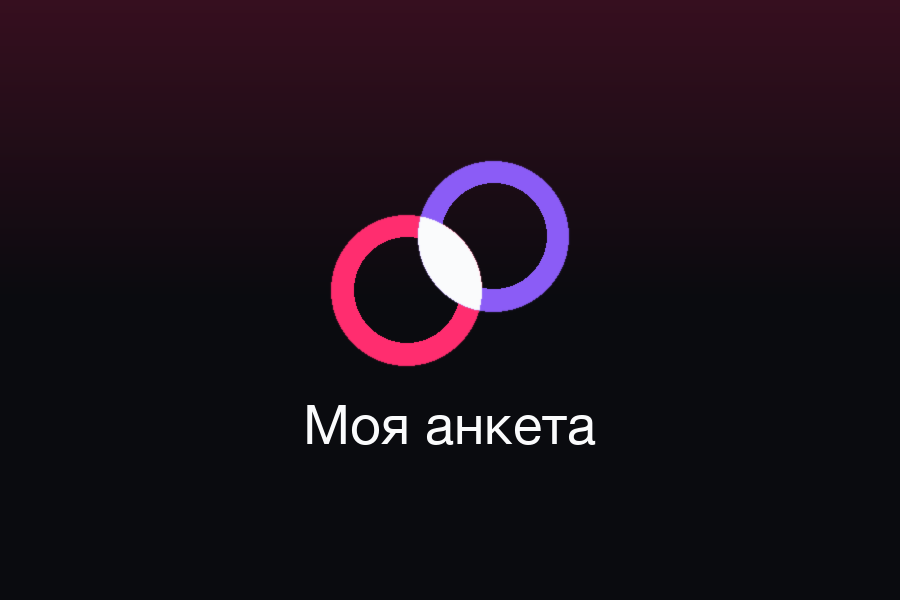
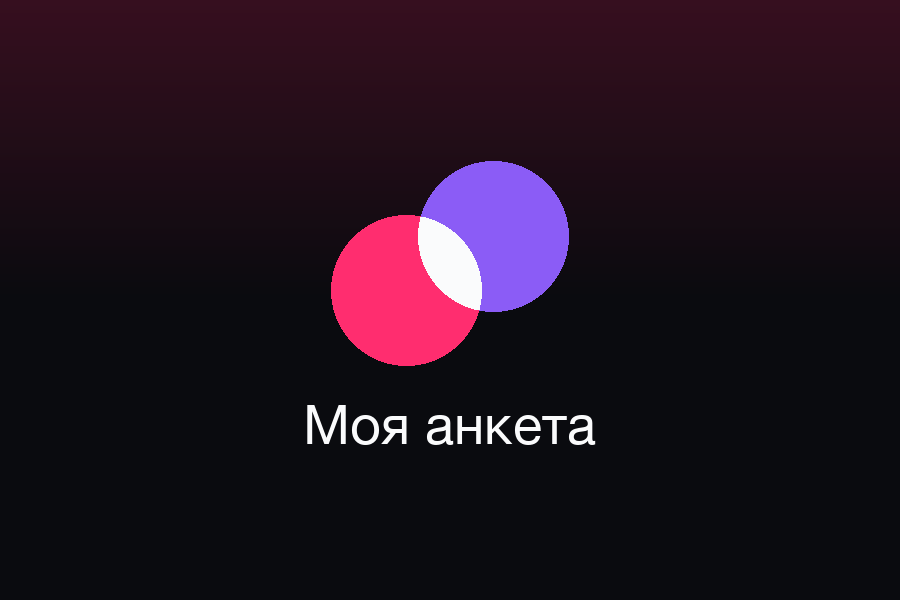
Tighten brandmark to solid overlapping discs with crisp lens.
Replace ring/glow mark with flat magenta/violet discs and a hard white intersection; regenerate icons, splash, and bot banners.

Changed region(s): [[0.3733, 0.36, 0.56, 0.57], [0.4667, 0.27, 0.6222, 0.48], [0.4356, 0.6, 0.4667, 0.63]]

diff --git a/web/src/components/BrandMark.tsx b/web/src/components/BrandMark.tsx
@@ -2,25 +2,23 @@ import { useId } from "react";
 import { motion, useReducedMotion } from "framer-motion";
 
 /**
- * Знак марки: две ауры, в пересечении — свет.
+ * Знак марки: два сплошных диска, в пересечении — свет.
  *
  * У каждого человека в продукте свой детерминированный цвет — аура
- * (lib/aura.ts). Знак: два кольца-ауры сходятся, пересечение загорается.
- * Кольца вместо залитых дисков — чтобы не читаться как Venn из слайда.
+ * (lib/aura.ts). Знак: два залитых диска сходятся, пересечение — жёсткая
+ * белая линза. Без колец и без soft-glow.
  *
  * Геометрия повторяет tools/brandmark.py (источник правды для PIL и
- * SVG-носителей): R = 24 при холсте 100, смещения ±13.92 / ∓8.64,
- * толщина кольца 0.30 R.
+ * SVG-носителей): R = 24 при холсте 100, смещения ±13.92 / ∓8.64.
  *
- * `animated` — «дыхание»: кольца медленно сходятся и расходятся, линза
- * пересечения растёт и тает. Уважает prefers-reduced-motion.
+ * `animated` — «дыхание»: диски медленно сходятся и расходятся, линза
+ * растёт и тает. Уважает prefers-reduced-motion.
  */
 
 const R = 24;
 const DX = 13.92; // 0.580 R
 const DY = 8.64; // 0.360 R
-const W = 7.2; // 0.30 R
-// Насколько кольца сходятся в крайней точке дыхания
+// Насколько диски сходятся в крайней точке дыхания
 const ШАГ = 2.6;
 
 const A = { cx: 50 - DX, cy: 50 + DY };
@@ -76,20 +74,16 @@ export default function BrandMark({
       <motion.circle
         cx={A.cx}
         cy={A.cy}
-        r={R - W / 2}
-        stroke="var(--color-accent)"
-        strokeWidth={W}
-        fill="none"
+        r={R}
+        fill="var(--color-accent)"
         animate={ходА}
         transition={переход}
       />
       <motion.circle
         cx={B.cx}
         cy={B.cy}
-        r={R - W / 2}
-        stroke="var(--color-mark-b)"
-        strokeWidth={W}
-        fill="none"
+        r={R}
+        fill="var(--color-mark-b)"
         animate={ходБ}
         transition={переход}
       />

diff --git a/tools/brandmark.py b/tools/brandmark.py
@@ -1,19 +1,14 @@
-"""Знак марки: две ауры, в пересечении — свет.
+"""Знак марки: два сплошных диска, в пересечении — свет.
 
 В продукте у каждого человека свой детерминированный цвет — аура
 (web/src/lib/aura.ts): кольца аватаров, обводки карточек, кольца историй.
-Знак строится из этой же идеи: два кольца-ауры разных оттенков
-сходятся по диагонали, и место пересечения загорается светом. Мэтч — это
-пересечение двух людей, у знака ровно этот смысл и ничего больше.
+Знак строится из этой же идеи: два залитых диска разных оттенков
+сходятся по диагонали, и место пересечения — жёсткая белая линза.
+Мэтч — это пересечение двух людей; у знака ровно этот смысл.
 
-Кольца, а не залитые диски: залитый Venn на тёмном фоне читается как
-схема из PowerPoint / нейрослоп. Обводка держит «ауру», линза — один
-яркий фокус (как у сильного знака), без звезды и без клона Мимолёта.
-
-Форма плоская, без градиентов: два цветных кольца и светлая линза
-читаются и в favicon 16px, и в 1024px. Диагональ снизу-слева
-вверх-вправо — знак «идёт навстречу», а заодно не путается с
-горизонтальными кругами платёжных систем.
+Сплошные диски, не кольца и не мягкие glow-пятна: форма читается
+как Venn-знак с одним ярким фокусом. Края жёсткие (микро-AA только),
+линза считается пересечением масок — не может разъехаться с дисками.
 
 Геометрия одна на все носители: iOS-иконка, сплэш, favicon, баннеры
 бота (make_icons.py, make_banners.py) импортируют её отсюда, SVG на
@@ -24,13 +19,12 @@
     расстояние между центрами  d  = 1.366 R   (линза ≈ 0.63 R — камень, не миндаль)
     смещение центра по X       dx = 0.580 R
     смещение центра по Y       dy = 0.360 R  (угол диагонали ≈ 32°)
-    толщина кольца             w  = 0.30 R
-Малиновое кольцо ниже и левее, фиолетовое выше и правее.
+Малиновый диск ниже и левее, фиолетовый выше и правее.
 """
 
 from __future__ import annotations
 
-from PIL import Image, ImageChops, ImageDraw, ImageFilter
+from PIL import Image, ImageChops, ImageDraw
 
 # Палитра дизайн-системы (web/src/styles/globals.css)
 МАЛИНОВЫЙ = (255, 45, 111)   # --color-accent #ff2d6f — первая аура
@@ -44,7 +38,6 @@ from PIL import Image, ImageChops, ImageDraw, ImageFilter
 #: Пропорции знака — доли от радиуса круга.
 СМЕЩЕНИЕ_X = 0.580
 СМЕЩЕНИЕ_Y = 0.360
-ТОЛЩИНА = 0.30
 
 #: Полные габариты знака в радиусах — чтобы вписывать его в макет.
 ШИРИНА = 2 * (1 + СМЕЩЕНИЕ_X)   # ≈ 3.160 R
@@ -52,21 +45,12 @@ from PIL import Image, ImageChops, ImageDraw, ImageFilter
 
 
 def _круг(size: tuple[int, int], cx: float, cy: float, r: float) -> Image.Image:
-    """Маска круга с микро-размытием: сглаживает край без потери формы."""
+    """Маска круга с жёстким краем — без GaussianBlur / soft-glow."""
     m = Image.new("L", size, 0)
     if r <= 0:
         return m
     ImageDraw.Draw(m).ellipse([cx - r, cy - r, cx + r, cy + r], fill=255)
-    return m.filter(ImageFilter.GaussianBlur(max(0.4, r * 0.008)))
-
-
-def _кольцо(
-    size: tuple[int, int], cx: float, cy: float, r: float, толщина: float
-) -> Image.Image:
-    """Маска кольца: внешний круг минус внутренний."""
-    внешний = _круг(size, cx, cy, r)
-    внутренний = _круг(size, cx, cy, max(0.0, r - толщина))
-    return ImageChops.subtract(внешний, внутренний)
+    return m
 
 
 def нарисовать_знак(
@@ -78,23 +62,18 @@ def нарисовать_знак(
 ) -> None:
     """Рисует знак на изображении. (cx, cy) — центр знака, r — радиус круга.
 
-    Порядок слоёв фиксированный: малиновое кольцо, фиолетовое кольцо,
-    поверх — светлая линза пересечения полных дисков. Линза считается
-    пересечением масок, а не рисуется отдельной формой, поэтому не может
-    разъехаться с кольцами.
+    Порядок слоёв: малиновый диск, фиолетовый диск, поверх — светлая
+    линза пересечения. Линза = darker(маска_а, маска_б).
     """
     а, б = (СЕРЫЙ_А, СЕРЫЙ_Б) if приглушить else (МАЛИНОВЫЙ, ФИОЛЕТОВЫЙ)
     dx, dy = СМЕЩЕНИЕ_X * r, СМЕЩЕНИЕ_Y * r
-    w = ТОЛЩИНА * r
 
     ax, ay = cx - dx, cy + dy
     bx, by = cx + dx, cy - dy
 
     диск_а = _круг(img.size, ax, ay, r)
     диск_б = _круг(img.size, bx, by, r)
-    кольцо_а = _кольцо(img.size, ax, ay, r, w)
-    кольцо_б = _кольцо(img.size, bx, by, r, w)
     линза = ImageChops.darker(диск_а, диск_б)
 
-    for маска, цвет in ((кольцо_а, а), (кольцо_б, б), (линза, СВЕТ)):
+    for маска, цвет in ((диск_а, а), (диск_б, б), (линза, СВЕТ)):
         img.paste(Image.new("RGB", img.size, цвет), (0, 0), маска)
